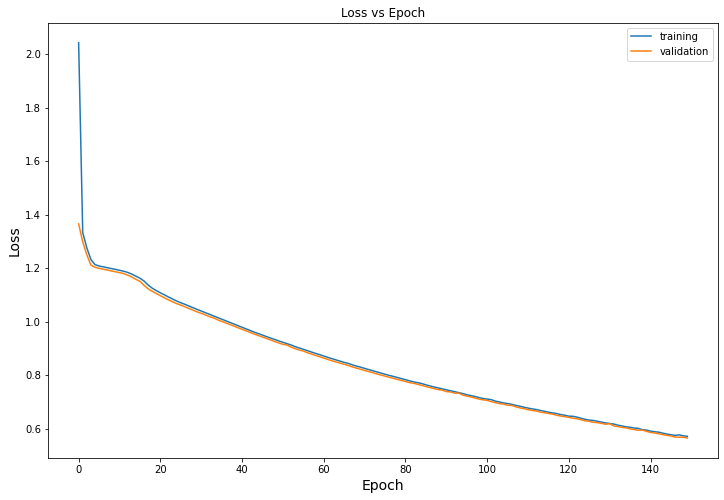
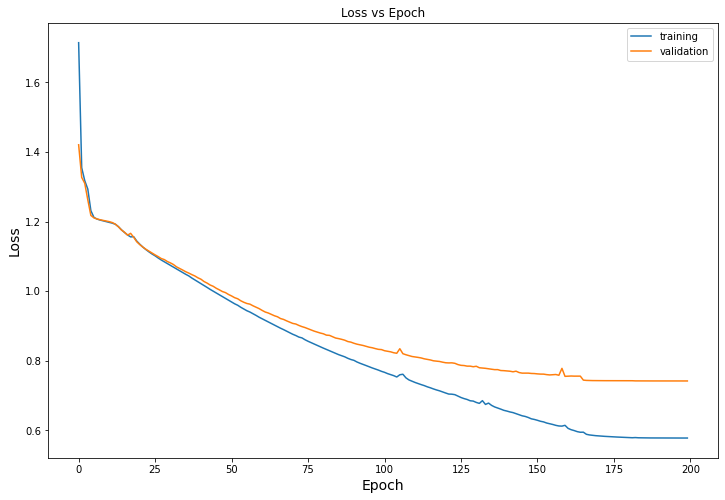
Update README

diff --git a/README.md b/README.md
@@ -64,7 +64,13 @@ With the tokenization completed, the individual chinese characters in the senten
 
 ### Model Training
 
-Notebook: <a href='03-ModelTraining.ipynb'>03-ModelTraining.ipynb</a>
+Notebook: 
+- <a href='03-1-ModelTrainingDevScratchPad.ipynb'>03-1-ModelTrainingDevScratchPad.ipynb</a>
+- <a href='03-2-ModelTrainingFull.ipynb'>03-2-ModelTrainingFull.ipynb</a>
+
+Source:
+- <a href='src/model.py'>model.py</a>
+- <a href='src/train_translation_model.py'>train_translation_model.py</a>
 
 **Encoder model**
 
@@ -85,7 +91,7 @@ The model was trained with a `Nvidia GTX1650Ti` GPU using the following configur
 |:-|:-:|
 |Optimizer|SGD(learning_rate=0.01,momentum=0.9,nesterov=True)|
 |Loss|SparseCategoricalCrossentropy|
-|Epoch|150|
+|Epoch|200|
 
 **Training result**
 
@@ -93,18 +99,21 @@ The training result is as follows:
 
 |Metric|Value|
 |:-|:-:|
-|Training time|8hr 14min|
-|Lowest training loss|0.572|
-|Lowest validation loss|0.565|
+|Training time|13hr 30min|
+|Lowest training loss|0.5775|
+|Lowest validation loss|0.7416|
+|Highest training accuracy|0.5750|
+|Highest validation accuracy|0.4958|
 
 The training and validation loss curve is shown below:
 
 <img src='images/loss_curve.png'>
+<img src='images/accuracy_curve.png'>
 
----
-
-### Translation result
+**Translation result**
 
 Notebook: <a href='04-TranslateEnglishToChinese.ipynb'>04-TranslateEnglishToChinese.ipynb</a>
 
 <img src='images/translation-01.png'>
+
+---
